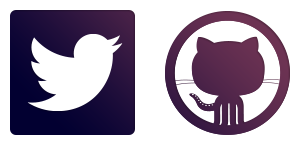
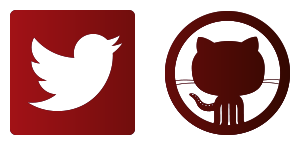
Modified docs with 'Extended by Jasny'

diff --git a/docs/assets/css/docs.css b/docs/assets/css/docs.css
@@ -33,12 +33,13 @@ body > .navbar {
 /* Change the docs' brand */
 body > .navbar .brand {
   padding-right: 0;
-  padding-left: 0;
+  padding-left: 65px;
   margin-left: 20px;
   float: right;
   font-weight: bold;
   color: #000;
   text-shadow: 0 1px 0 rgba(255,255,255,.1), 0 0 30px rgba(255,255,255,.125);
+  background: url("../img/jasny-logo.png") no-repeat scroll -85px -200px transparent;
   -webkit-transition: all .2s linear;
      -moz-transition: all .2s linear;
           transition: all .2s linear;
@@ -48,6 +49,11 @@ body > .navbar .brand:hover {
   text-shadow: 0 1px 0 rgba(255,255,255,.1), 0 0 30px rgba(255,255,255,.4);
 }
 
+.extended-badge {
+    position: absolute;
+    top: 30px;
+    right: 30px;
+}
 
 /* Sections
 -------------------------------------------------- */
@@ -93,14 +99,14 @@ hr.soften {
   color: #fff;
   text-align: center;
   text-shadow: 0 1px 3px rgba(0,0,0,.4), 0 0 30px rgba(0,0,0,.075);
-  background: #020031; /* Old browsers */
-  background: -moz-linear-gradient(45deg,  #020031 0%, #6d3353 100%); /* FF3.6+ */
-  background: -webkit-gradient(linear, left bottom, right top, color-stop(0%,#020031), color-stop(100%,#6d3353)); /* Chrome,Safari4+ */
-  background: -webkit-linear-gradient(45deg,  #020031 0%,#6d3353 100%); /* Chrome10+,Safari5.1+ */
-  background: -o-linear-gradient(45deg,  #020031 0%,#6d3353 100%); /* Opera 11.10+ */
-  background: -ms-linear-gradient(45deg,  #020031 0%,#6d3353 100%); /* IE10+ */
-  background: linear-gradient(45deg,  #020031 0%,#6d3353 100%); /* W3C */
-  filter: progid:DXImageTransform.Microsoft.gradient( startColorstr='#020031', endColorstr='#6d3353',GradientType=1 ); /* IE6-9 fallback on horizontal gradient */
+  background: #620d0A; /* Old browsers */
+  background: -moz-linear-gradient(45deg,  #a51217 0%, #2f0800 100%); /* FF3.6+ */
+  background: -webkit-gradient(linear, left bottom, right top, color-stop(0%,#a51217), color-stop(100%,#2f0800)); /* Chrome,Safari4+ */
+  background: -webkit-linear-gradient(45deg,  #a51217 0%,#2f0800 100%); /* Chrome10+,Safari5.1+ */
+  background: -o-linear-gradient(45deg,  #a51217 0%,#2f0800 100%); /* Opera 11.10+ */
+  background: -ms-linear-gradient(45deg,  #a51217 0%,#2f0800 100%); /* IE10+ */
+  background: linear-gradient(45deg,  #a51217 0%,#2f0800 100%); /* W3C */
+  filter: progid:DXImageTransform.Microsoft.gradient( startColorstr='#a51217', endColorstr='#2f0800',GradientType=1 ); /* IE6-9 fallback on horizontal gradient */
   -webkit-box-shadow: inset 0 3px 7px rgba(0,0,0,.2), inset 0 -3px 7px rgba(0,0,0,.2);
      -moz-box-shadow: inset 0 3px 7px rgba(0,0,0,.2), inset 0 -3px 7px rgba(0,0,0,.2);
           box-shadow: inset 0 3px 7px rgba(0,0,0,.2), inset 0 -3px 7px rgba(0,0,0,.2);
@@ -143,34 +149,38 @@ hr.soften {
   to {   box-shadow: inset 0 1px 0 rgba(255,255,255,.1), 0 1px 5px rgba(0,0,0,.25), 0 2px 10px rgba(0,68,204,.5); }
 }
 .masthead .btn {
-  padding: 14px 24px;
+  padding: 20px 24px 14px 24px;
   font-size: 24px;
+  line-height: 20px;
   font-weight: 200;
   color: #fff; /* redeclare to override the `.jumbotron a` */
   border: 0;
   -webkit-border-radius: 6px;
      -moz-border-radius: 6px;
           border-radius: 6px;
-  -webkit-box-shadow: inset 0 1px 0 rgba(255,255,255,.1), 0 1px 5px rgba(0,0,0,.25), 0 2px 10px rgba(0,68,204,.01);
-     -moz-box-shadow: inset 0 1px 0 rgba(255,255,255,.1), 0 1px 5px rgba(0,0,0,.25), 0 2px 10px rgba(0,68,204,.01);
-          box-shadow: inset 0 1px 0 rgba(255,255,255,.1), 0 1px 5px rgba(0,0,0,.25), 0 2px 10px rgba(0,68,204,.01);
-  -webkit-animation-name: downloadButton;
-     -moz-animation-name: downloadButton;
-  -webkit-animation-duration: 1.5s;
-     -moz-animation-duration: 1.5s;
-  -webkit-animation-iteration-count: infinite;
-     -moz-animation-iteration-count: infinite;
   -webkit-transition: none;
      -moz-transition: none;
           transition: none;
 
+}
+.masthead .btn-primary {
+  -webkit-box-shadow: inset 0 1px 0 rgba(255,255,255,.1), 0 1px 5px rgba(0,0,0,.25), 0 2px 10px rgba(0,68,204,.5);
+     -moz-box-shadow: inset 0 1px 0 rgba(255,255,255,.1), 0 1px 5px rgba(0,0,0,.25), 0 2px 10px rgba(0,68,204,.5);
+          box-shadow: inset 0 1px 0 rgba(255,255,255,.1), 0 1px 5px rgba(0,0,0,.25), 0 2px 10px rgba(0,68,204,.5);
+}
+.masthead .btn-warning {
+  -webkit-box-shadow: inset 0 1px 0 rgba(255,255,255,.1), 0 1px 5px rgba(0,0,0,.25), 0 2px 10px rgba(248,148,6,.4);
+     -moz-box-shadow: inset 0 1px 0 rgba(255,255,255,.1), 0 1px 5px rgba(0,0,0,.25), 0 2px 10px rgba(248,148,6,.4);
+          box-shadow: inset 0 1px 0 rgba(255,255,255,.1), 0 1px 5px rgba(0,0,0,.25), 0 2px 10px rgba(248,148,6,.4);
 }
 .masthead .btn:active {
   -webkit-box-shadow: inset 0 2px 4px rgba(0,0,0,.1), 0 1px 0 rgba(255,255,255,.1);
      -moz-box-shadow: inset 0 2px 4px rgba(0,0,0,.1), 0 1px 0 rgba(255,255,255,.1);
           box-shadow: inset 0 2px 4px rgba(0,0,0,.1), 0 1px 0 rgba(255,255,255,.1);
 }
-
+.masthead .btn small {
+  font-size: 60%;
+}
 
 /* Pattern overlay
 ------------------------- */
@@ -206,6 +216,9 @@ hr.soften {
   font-size: 40px;
   font-weight: 200;
   line-height: 1.25;
+}
+.masthead .container {
+  background: transparent url(../img/jasny-logo-emboss.png) no-repeat left bottom;
 }
 
 /* Textual links in masthead */
@@ -264,10 +277,12 @@ hr.soften {
 /* Marketing section of Overview
 -------------------------------------------------- */
 
+.changes,
 .marketing {
   text-align: center;
   color: #5a5a5a;
 }
+.changes h1,
 .marketing h1 {
   margin: 60px 0 10px;
   font-size: 60px;
@@ -275,6 +290,7 @@ hr.soften {
   line-height: 1;
   letter-spacing: -1px;
 }
+.changes h2,
 .marketing h2 {
   font-weight: 200;
   margin-bottom: 5px;
@@ -283,6 +299,10 @@ hr.soften {
   font-size: 16px;
   line-height: 1.5;
 }
+.changes .row {
+  margin-bottom: 9px;
+}
+.changes .marketing-byline,
 .marketing .marketing-byline {
   margin-bottom: 40px;
   font-size: 20px;
@@ -855,6 +875,11 @@ form.bs-docs-example {
     padding-right: 10px;
   }
 
+  .extended-badge {
+    top: 10px;
+    right: 10px;
+  }
+  
   /* Inline-block quick links for more spacing */
   .quick-links li {
     display: inline-block;
@@ -898,6 +923,10 @@ form.bs-docs-example {
     padding-top: 0;
   }
 
+  .extended-badge {
+      width: 100px;
+  }
+  
   /* Widen masthead and social buttons to fill body padding */
   .jumbotron {
     padding: 40px 20px;
@@ -955,6 +984,10 @@ form.bs-docs-example {
     padding-top: 0;
   }
 
+  .extended-badge {
+    display: none;
+  }
+  
   /* Change up some type stuff */
   h2 small {
     display: block;
@@ -970,7 +1003,7 @@ form.bs-docs-example {
   }
   .jumbotron .btn {
     display: block;
-    margin: 0 auto;
+    margin: 0 auto 10px auto;
   }
 
   /* center align subhead text like the masthead */

diff --git a/docs/assets/js/application.js b/docs/assets/js/application.js
@@ -107,7 +107,7 @@
 
       $.ajax({
         type: 'POST'
-      , url: /\?dev/.test(window.location) ? 'http://localhost:3000' : 'http://bootstrap.herokuapp.com'
+      , url: /\?dev/.test(window.location) ? 'http://localhost:3000' : 'http://bootstrap-server.jasny.net'
       , dataType: 'jsonpi'
       , params: {
           js: js
